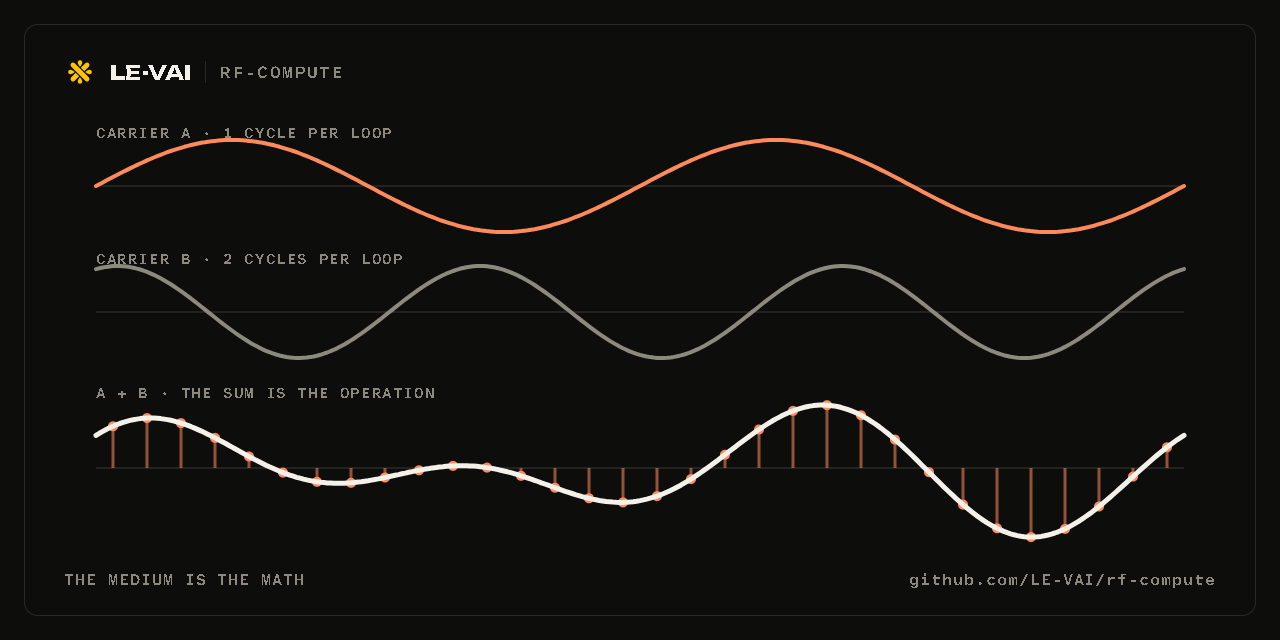
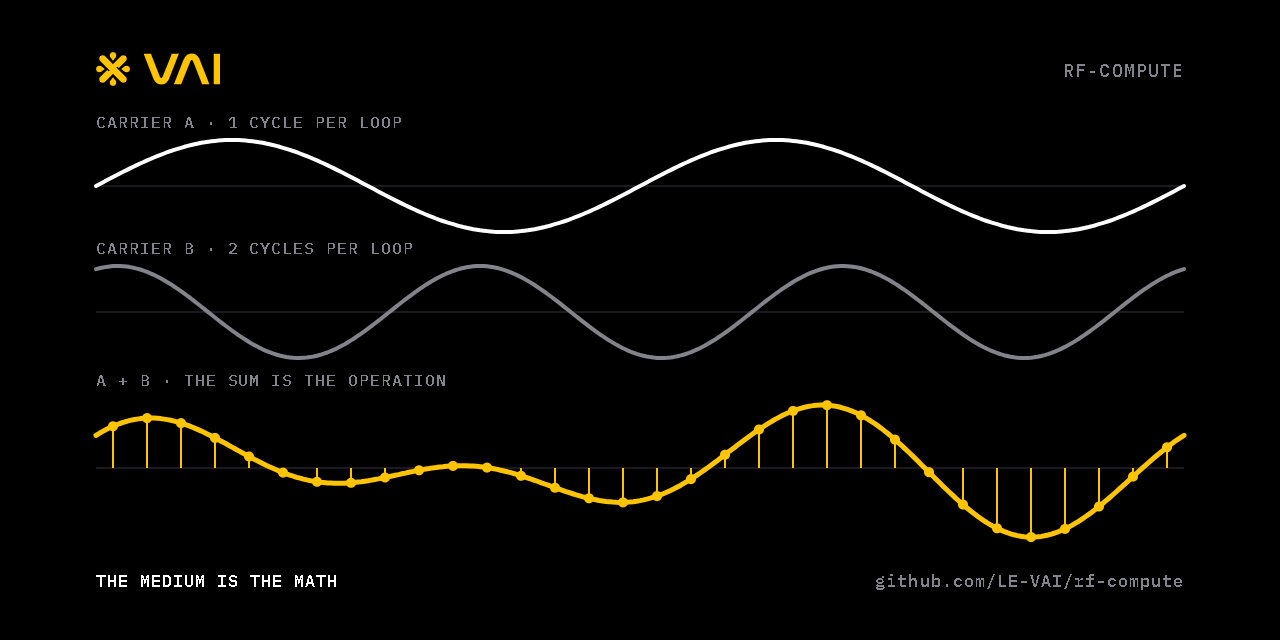
Hero loop and social card in VAI identity v2: black ground, Inter and IBM Plex Mono, the v2 lockup, yellow only on the signal (seam re-proven)

diff --git a/README.md b/README.md
@@ -4,7 +4,7 @@
 <p align="center">
   <picture>
     <source media="(prefers-reduced-motion: reduce)" srcset="https://raw.githubusercontent.com/LE-VAI/rf-compute/main/docs/media/hero-poster.png">
-    <img src="https://raw.githubusercontent.com/LE-VAI/rf-compute/main/docs/media/hero-loop.webp" width="800" alt="Two carrier waves travel across the frame. Carrier A completes one cycle per loop and carrier B completes two. The bottom lane shows their sum, sampled as orange stems: the interference is the operation.">
+    <img src="https://raw.githubusercontent.com/LE-VAI/rf-compute/main/docs/media/hero-loop.webp" width="800" alt="Two carrier waves travel across the frame. Carrier A completes one cycle per loop and carrier B completes two. The bottom lane shows their sum, sampled as yellow stems: the interference is the operation.">
   </picture>
 </p>
 <p align="center"><sub>A 4-second loop. It plays once and rests, and shows a still frame if you prefer reduced motion. <a href="https://le-vai.github.io/LE-VAI/loops/#rf-compute">Watch it on repeat</a>.</sub></p>
